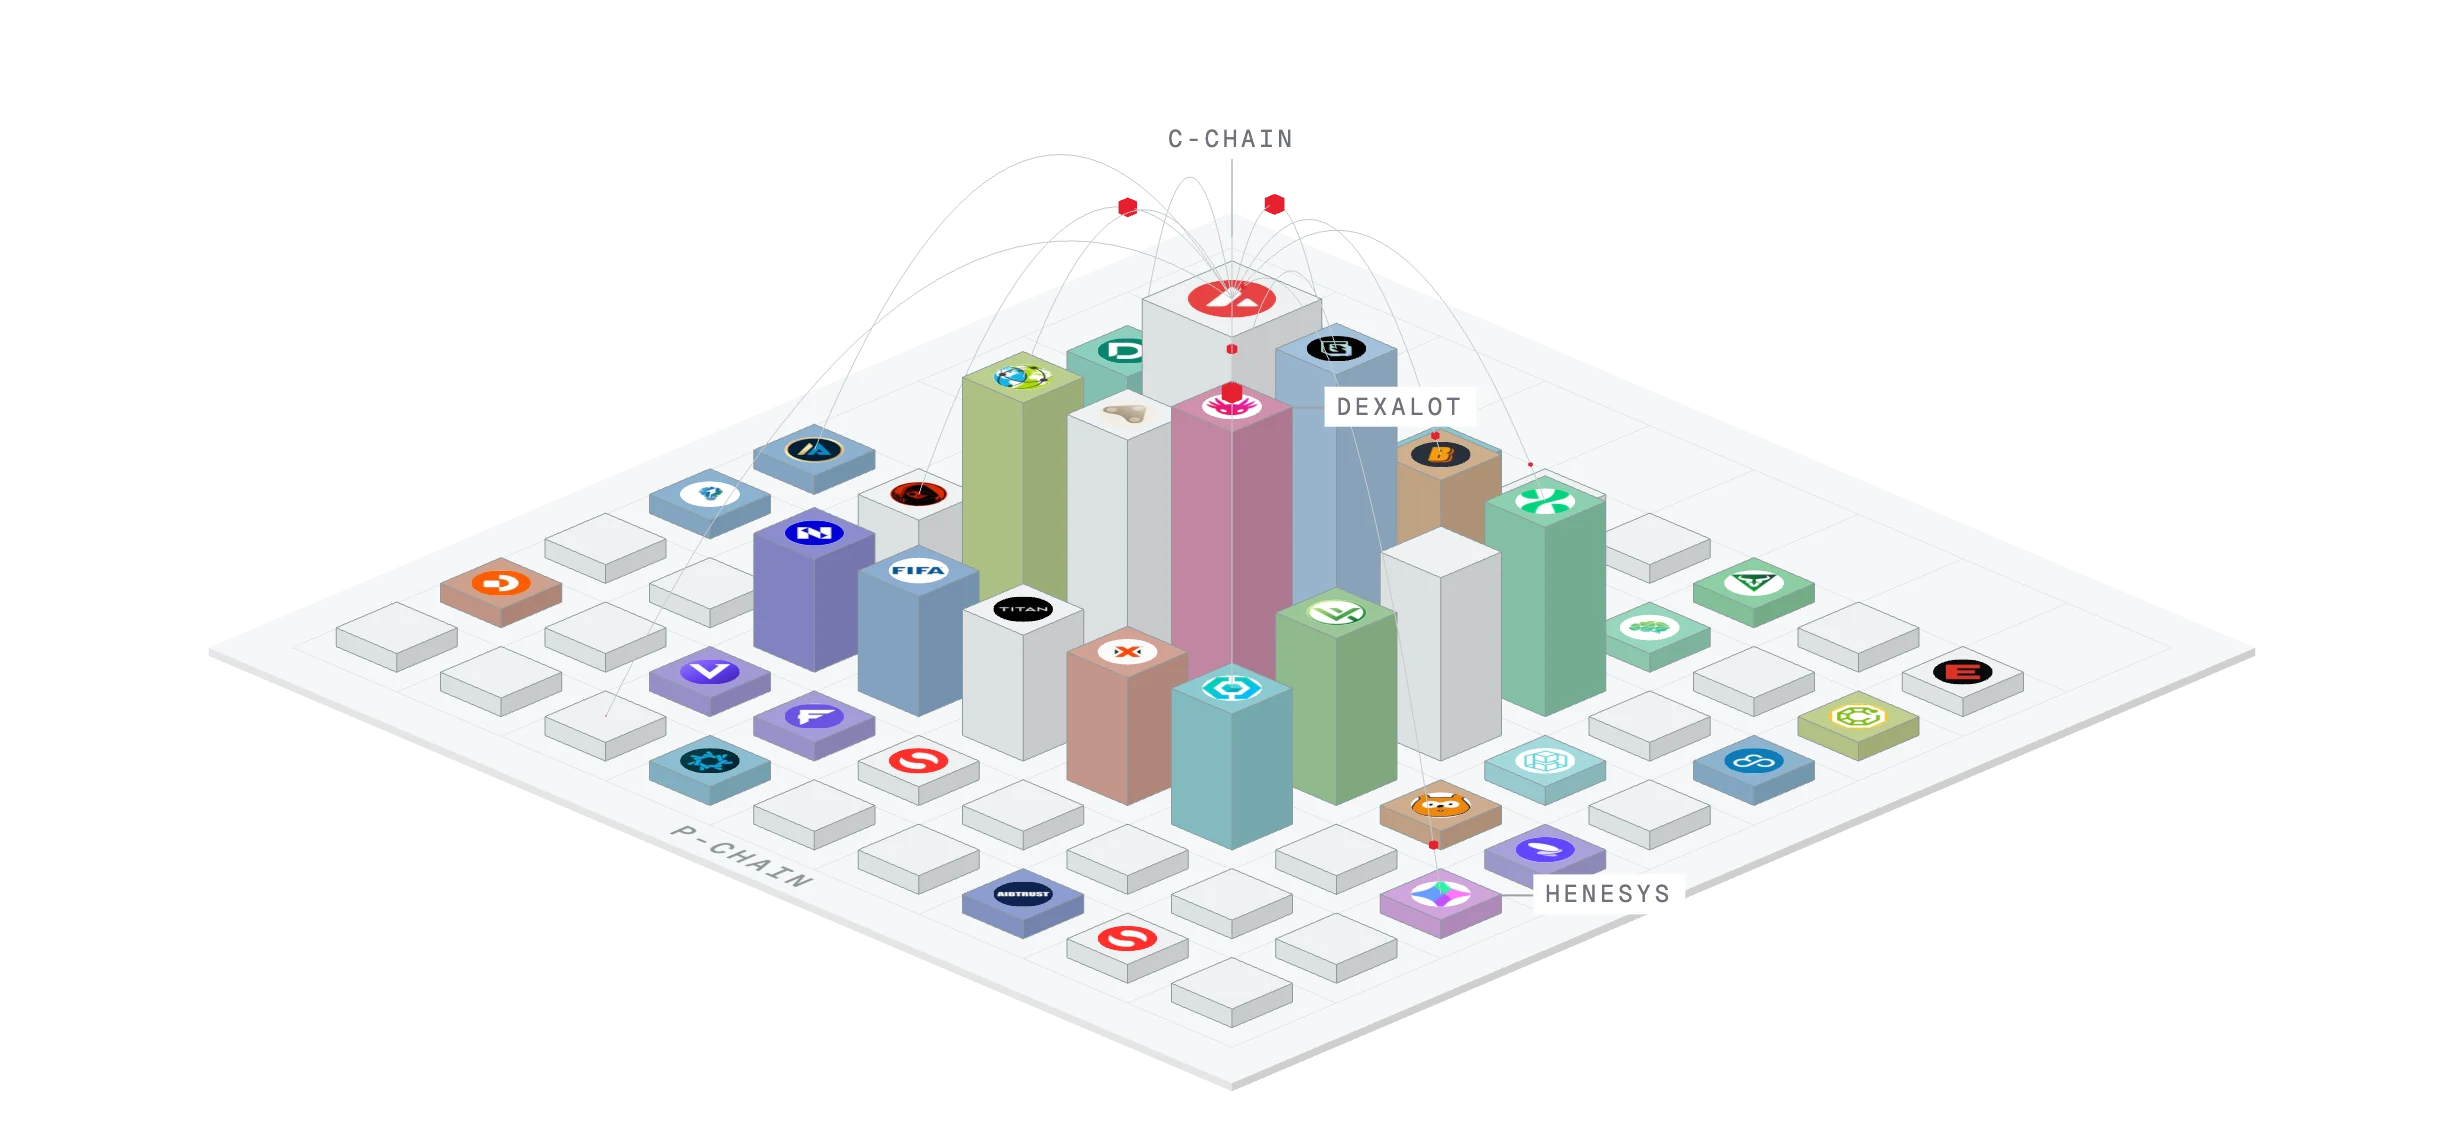
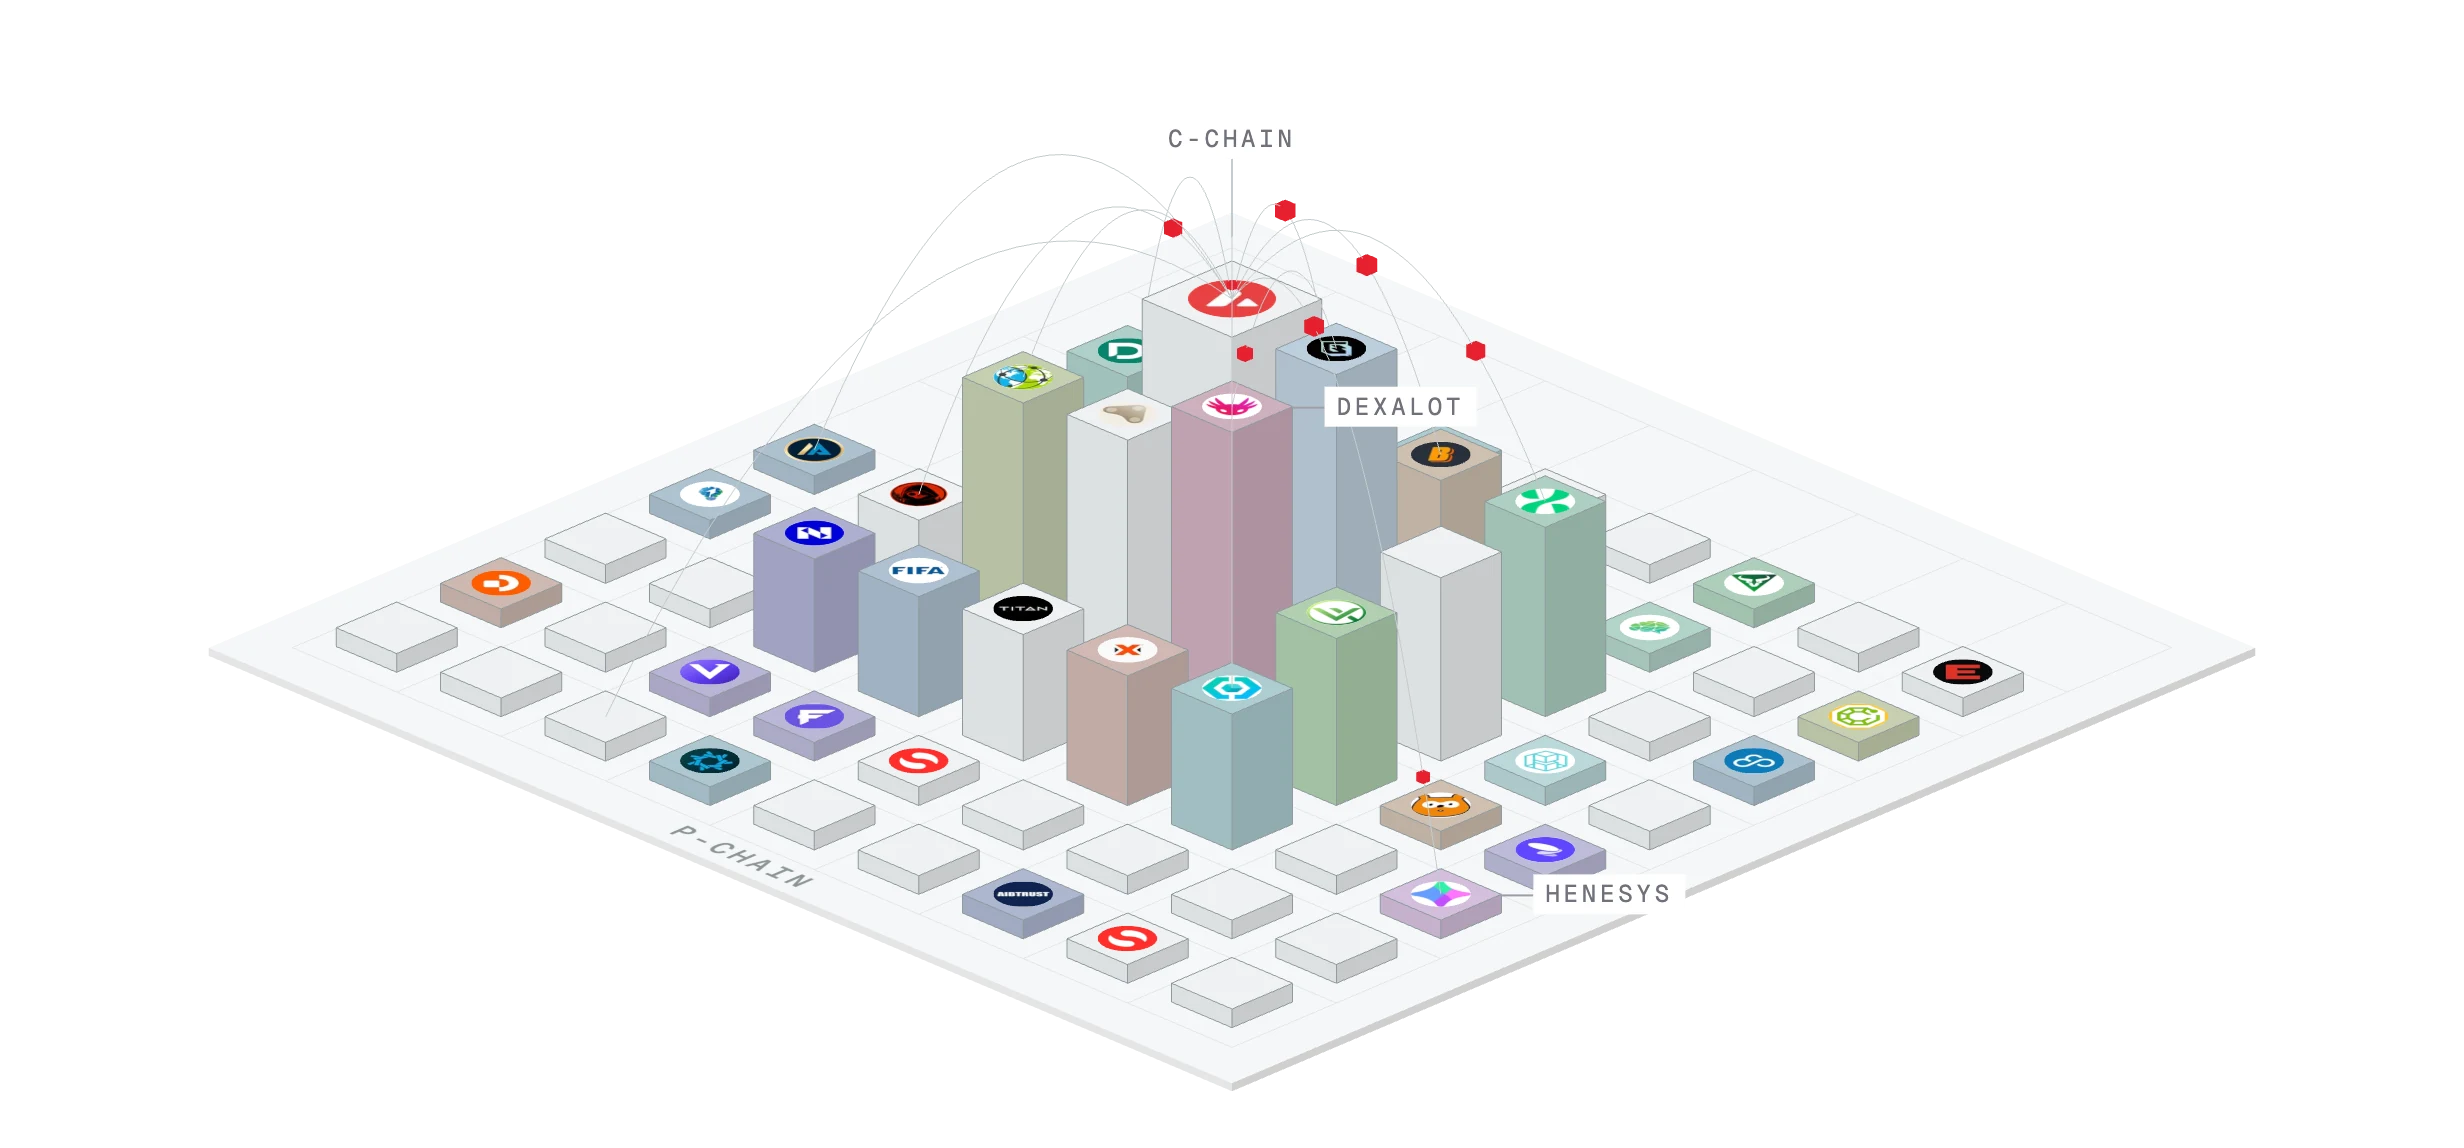
feat(home): add the 30-day icm count and calm the network's colors
The third figure is the ICM message count the board shows. Brand tones are muted so the messages
stay the loudest color, and the rise waits until the drawing is seen.

diff --git a/components/landing-v2/story/InteropChapter.tsx b/components/landing-v2/story/InteropChapter.tsx
@@ -1,10 +1,12 @@
 "use client";
 
-import { useMemo } from "react";
+import { useMemo, useRef } from "react";
 import dynamic from "next/dynamic";
+import { useInView } from "framer-motion";
 import { BrandButton } from "@/components/landing-v2/BrandButton";
 import { track } from "@/components/landing-v2/track";
-import { BODY, CAPTION, Chapter, Figure, Lead, Reveal, TextLink, Title } from "./kit";
+import { formatCompact } from "@/components/landing-v2/compactFigure";
+import { CAPTION, Chapter, Figure, Lead, REVEAL_VIEW, Reveal, TextLink, Title } from "./kit";
 import { SceneFrame } from "./three/SceneFrame";
 import type { NetworkChain, NetworkRoute } from "./three/NetworkScene";
 
@@ -51,13 +53,18 @@ export default function InteropChapter({ data }: { data: InteropData }) {
     const top = [...sent.entries()].sort((a, b) => b[1] - a[1]).slice(0, 2).map(([id]) => id);
     return [C_CHAIN_ID, ...top];
   }, [routes]);
+  // the red marks' number: every message on these routes in the window
+  const messages = useMemo(() => routes.reduce((sum, r) => sum + r.count, 0), [routes]);
+  // the rise starts as the box fades in, not before
+  const boxRef = useRef<HTMLDivElement>(null);
+  const shown = useInView(boxRef, REVEAL_VIEW);
 
   return (
     <Chapter id="interop">
       <Reveal>
-        <div className="grid gap-8 lg:grid-cols-12 lg:items-start">
-          <Title lead="Any L1 can connect." rest="No bridge operator" className="lg:col-span-7" />
-          <Lead className="lg:col-span-5">
+        <div className="grid gap-8 xl:grid-cols-12 xl:items-start">
+          <Title lead="Any L1 can connect." rest="No bridge operator" className="xl:col-span-7" />
+          <Lead className="xl:col-span-5">
             With Interchain Messaging, the sending chain&apos;s validators sign each message. The receiving chain checks
             the signatures against the sender&apos;s validator set on the <span className="whitespace-nowrap">P-Chain</span>.
           </Lead>
@@ -65,18 +72,20 @@ export default function InteropChapter({ data }: { data: InteropData }) {
       </Reveal>
 
       <Reveal delay={0.1} className="-mx-5 mt-12 md:mx-0 md:mt-16">
-        <SceneFrame
-          Scene={NetworkScene}
-          sceneProps={{ chains, routes, labelled }}
-          still={STILL}
-          stillNarrow={STILL_NARROW}
-          alt="The chains the explorer lists, drawn as blocks on the P-Chain with their logos, each as tall as its transactions over 30 days. Chains with no indexed count stand at the base height. Red marks are interchain messages on the routes they took."
-          aspect={2.15}
-          aspectNarrow={1.15}
-        />
+        <div ref={boxRef}>
+          <SceneFrame
+            Scene={NetworkScene}
+            sceneProps={{ chains, routes, labelled, play: shown }}
+            still={STILL}
+            stillNarrow={STILL_NARROW}
+            alt="The chains the explorer lists, drawn as blocks on the P-Chain with their logos, each as tall as its transactions over 30 days. Chains with no indexed count stand at the base height. Red marks are interchain messages on the routes they took."
+            aspect={2.15}
+            aspectNarrow={1.625}
+          />
+        </div>
         <p className={`mt-6 max-w-3xl px-5 md:px-0 ${CAPTION}`}>
-          Each block is a chain the explorer lists, as tall as its transactions over 30 days. Chains with no indexed count
-          stand at the base height. In red: interchain messages, on the routes they took in those 30 days.
+          Height: transactions over 30 days. Chains with no indexed count stand at the base height. Red: interchain messages
+          over the same 30 days.
         </p>
       </Reveal>
 
@@ -84,11 +93,11 @@ export default function InteropChapter({ data }: { data: InteropData }) {
         <div className="grid gap-12 border-t border-zinc-200 pt-12 md:grid-cols-3 md:gap-8 dark:border-zinc-800">
           <Figure value="67%" caption="of the sender's stake must sign each message, by default." />
           <Figure value="0" caption="bridge operators, multisigs or oracles in the path." />
+          {messages > 0 && (
+            <Figure value={formatCompact(messages)} caption="ICM messages between these chains in the last 30 days." />
+          )}
         </div>
-        <p className={`mt-12 max-w-xl ${BODY}`}>
-          Interchain Token Transfer locks a token in a home contract and mints a backed representation on another chain.
-        </p>
-        <div className="mt-10 flex flex-col gap-6 sm:flex-row sm:items-center sm:gap-8">
+        <div className="mt-14 flex flex-col gap-6 sm:flex-row sm:items-center sm:gap-8">
           <BrandButton
             href="/console/icm/setup"
             variant="secondary"

diff --git a/components/landing-v2/story/three/NetworkScene.tsx b/components/landing-v2/story/three/NetworkScene.tsx
@@ -66,6 +66,8 @@ export interface NetworkSceneProps {
   routes: NetworkRoute[];
   /** chain ids that carry a name label */
   labelled: string[];
+  /** false until the reader can see the box: the rise, the routes and the first messages wait for it */
+  play?: boolean;
 }
 
 const CELL = 1;
@@ -722,7 +724,9 @@ export default function NetworkScene({
   theme,
   running,
   onReady,
+  play = true,
 }: NetworkSceneProps & SceneProps) {
+  const on = running && play;
   const placed = useMemo(() => layout(chains), [chains]);
   const extent = useMemo(() => Math.max(1, ...placed.map((p) => Math.max(Math.abs(p.x), Math.abs(p.z)))), [placed]);
   const rise = useMemo(() => Math.max(0, ...placed.map((p) => p.ring)) * RING_S + GROW_S, [placed]);
@@ -795,8 +799,8 @@ export default function NetworkScene({
         c.until = Math.max(c.until, c.t + SEND_S);
       }}
     >
-      <Tick clock={clock} running={running} />
-      <Kick running={running} />
+      <Tick clock={clock} running={on} />
+      <Kick running={on} />
       <Ready when={(marks !== null && name !== null) || late} onReady={onReady} />
       <Rig extent={extent}>
         <Plate extent={extent} theme={theme} />

diff --git a/components/landing-v2/story/three/palette.ts b/components/landing-v2/story/three/palette.ts
@@ -91,8 +91,8 @@ export function shadedBox(theme: SceneTheme, w = 1, h = 1, d = 1): BoxGeometry {
 
 /** how far a chain's own color is held in, per page theme: saturation cap, lightness band, then a step toward the face tone */
 const BRAND: Record<SceneTheme, { s: number; l: [number, number]; toFace: number }> = {
-  light: { s: 0.5, l: [0.52, 0.66], toFace: 0.25 },
-  dark: { s: 0.45, l: [0.4, 0.52], toFace: 0.15 },
+  light: { s: 0.35, l: [0.55, 0.68], toFace: 0.4 },
+  dark: { s: 0.28, l: [0.38, 0.5], toFace: 0.35 },
 };
 const RED_HUE = new Color(PALETTE.light.red).getHSL({ h: 0, s: 0, l: 0 }, SRGBColorSpace).h;
 
